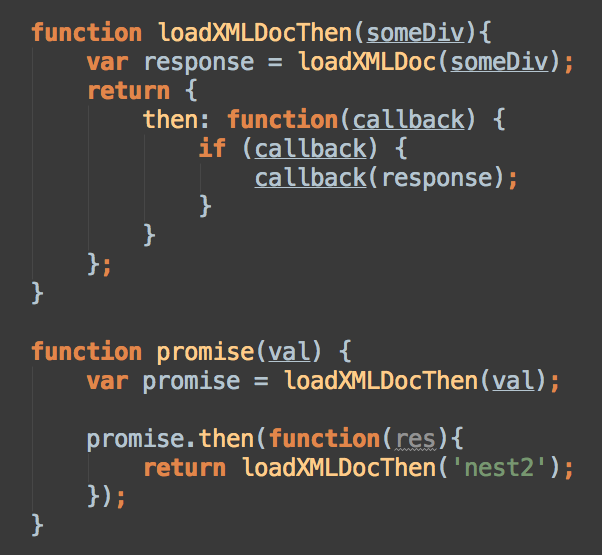
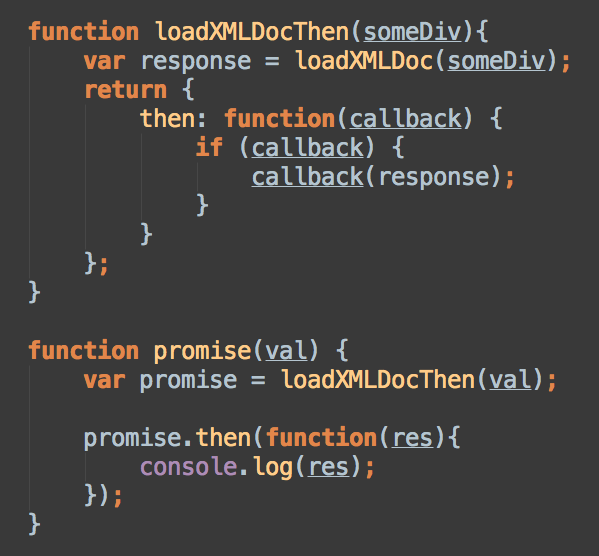
Creating slides.

diff --git a/src/main/webapp/slides/2014.html b/src/main/webapp/slides/2014.html
@@ -41,6 +41,14 @@
 </section>
 
 <section id="b" class="slide">
+    <!--
+  <ul>
+       <li>Browser</li>
+       <li>AJAX</li>
+       <li>Promise</li>
+       <li>AngularJS</li>
+  </ul>
+  -->
     <h2>What's in store</h2>
     <div class="col-md-10 col-md-offset-1">
         <ul>
@@ -107,19 +115,19 @@
                 <pre>
                     <code>
                         function buttonClick(){
-                          console.log(&#x27;hello, click event&#x27;);
-                          functionWhichTakesFunctionAsArgument(callback);
+                        console.log(&#x27;hello, click event&#x27;);
+                        functionWhichTakesFunctionAsArgument(callback);
                         }
 
                         var callback = function(data){
-                          console.log(&#x27;callback time! &#x27;+data);
+                        console.log(&#x27;callback time! &#x27;+data);asdfadsfsadfadf
                         };
 
                         function functionWhichTakesFunctionAsArgument(callback){
-                          console.log(&#x27;first function execution&#x27;);
-                          //... do something
-                          var response = Math.random();
-                          callback(response);
+                        console.log(&#x27;first function execution&#x27;);
+                        //... do something
+                        var response = Math.random();
+                        callback(response);
                         };
                     </code>
                 </pre>
@@ -141,6 +149,7 @@
     <!--
     <ul>
         <li>AJAX = Asynchronous JavaScript and XML</li>
+        <li>AJAX is the art of exchanging data with a server, and updating parts of a web page - without reloading the whole page.</li>
     </ul>
     -->
     <h2>AJAX</h2>
@@ -150,22 +159,22 @@
                 <pre>
                     <code>
                         function buttonClick2(){
-                          consoleLog(&#x27;f_ajaxDiv&#x27;, &#x27;Click event&#x27;);
-                          functionWhithTakesFunctionAsArgument2(callback2);
-                          consoleLogAdd(&#x27;f_ajaxDiv&#x27;, &#x27;No Blocking!!&#x27;)
+                        consoleLog(&#x27;f_ajaxDiv&#x27;, &#x27;Click event&#x27;);
+                        functionWhithTakesFunctionAsArgument2(callback2);
+                        consoleLogAdd(&#x27;f_ajaxDiv&#x27;, &#x27;No Blocking!!&#x27;)
                         }
 
                         var callback2 = function(data){
-                          consoleLogAdd(&#x27;f_ajaxDiv&#x27;, &#x27;callback time! &#x27;+data);
+                        consoleLogAdd(&#x27;f_ajaxDiv&#x27;, &#x27;callback time! &#x27;+data);
                         };
 
                         function functionWhichTakesFunctionAsArgument2(someCallbackMethod){
-                          consoleLogAdd(&#x27;f_ajaxDiv&#x27;, &#x27;first function execution&#x27;);
-                          //... do something
-                          setTimeout(function(){
-                            var response = Math.random();
-                            someCallbackMethod(response);
-                          }, 3000);
+                        consoleLogAdd(&#x27;f_ajaxDiv&#x27;, &#x27;first function execution&#x27;);
+                        //... do something
+                        setTimeout(function(){
+                        var response = Math.random();
+                        someCallbackMethod(response);
+                        }, 3000);
                         };
                     </code>
                 </pre>
@@ -174,10 +183,10 @@
             <script async src="http://codepen.io/assets/embed/ei.js"></script>
             <div class="figure">
                 <div style="float: left" id="f_ajaxDiv">...</div>
-<!--                 <img class="img_width" src="images/callback2.png"/>
- -->                <ul class="list-inline text-right">
-                    <li><a class="btn btn-primary" onclick="buttonClick2()">Call me back</a></li>
-                </ul>
+                <!--                 <img class="img_width" src="images/callback2.png"/>
+                 -->                <ul class="list-inline text-right">
+                <li><a class="btn btn-primary" onclick="buttonClick2()">Call me back</a></li>
+            </ul>
             </div>
         </div>
     </section>
@@ -236,14 +245,22 @@
 <section id="k" class="slide">
     <!--
     <ul>
-        <li>Angular</li>
+        <li>The primary way of interacting with a promise is through its THEN method</li>
+        <li>THEN registers callbacks to receive either a promise’s eventual value or the reason why the promise cannot be fulfilled.</li>
     </ul>
     -->
     <h2>Promises</h2>
     <div class="figure">
         A promise
-        represents the eventual result of an asynchronous operation. The primary way of interacting with a promise is through its then method, which registers callbacks to receive either a promise’s eventual value or the reason why the promise cannot be fulfilled.
         <a class="img_width" href="http://promisesaplus.com/#point-2">Promises/A+</a>
+        represents the eventual result of an asynchronous operation.
+        <div class="figure">
+            <img class="img_width" src="images/promise.png"/>
+            <div id="promiseDiv">Some Static data</div>
+            <ul class="list-inline text-right">
+                <li><a class="btn btn-primary" onclick="promise('promiseDiv')">Call me back</a></li>
+            </ul>
+        </div>
     </div>
 </section>
 
@@ -268,7 +285,16 @@
 <section id="m" class="slide">
     <!--
     <ul>
-        <li>Angular</li>
+<li>A promise must be in one of three states:
+<br/>pending, fulfilled, or rejected.
+<li><p>When pending, a promise:
+may transition to either the fulfilled or rejected state.</li>
+<li><p>When fulfilled, a promise:
+<br/>must not transition to any other state.
+<br/>must have a value, which must not change.</li>
+<li><p>When rejected, a promise:
+<br/>must not transition to any other state.
+<br/>must have a reason, which must not change.</li>
     </ul>
     -->
     <h2>Three States</h2>
@@ -283,33 +309,35 @@
     </div>
 </section>
 
-<section id="n" class="slide">
-    <!--
-    <ul>
-        <li>When se</li>
-    </ul>
-    -->
-    <h2>Promise</h2>
-    <div class="figure">
-        <img class="img_width" src="images/promise.png"/>
-        <div id="promiseDiv">Some Static data</div>
-        <ul class="list-inline text-right">
-            <li><a class="btn btn-primary" onclick="promise('promiseDiv')">Call me back</a></li>
-        </ul>
-    </div>
-</section>
+<!--<section id="n" class="slide">-->
+    <!--&lt;!&ndash;-->
+    <!--<ul>-->
+        <!--<li>When se</li>-->
+    <!--</ul>-->
+    <!--&ndash;&gt;-->
+    <!--<h2>Promise</h2>-->
+    <!--<div class="figure">-->
+        <!--<img class="img_width" src="images/promise.png"/>-->
+        <!--<div id="promiseDiv">Some Static data</div>-->
+        <!--<ul class="list-inline text-right">-->
+            <!--<li><a class="btn btn-primary" onclick="promise('promiseDiv')">Call me back</a></li>-->
+        <!--</ul>-->
+    <!--</div>-->
+<!--</section>-->
 
 <section id="o1" class="slide" ng-app="myApp">
     <!--
     <ul>
-        <li>When se</li>
+         <li>http Facilitates communication with the remote HTTP servers via the browser's XMLHttpRequest object.</li>
+         <li><p>A function which takes a single argument — a configuration object —
+         <br/>that is used to generate an HTTP request and returns a promise with two $http specific methods: success and error.</li>
+         <li><p>Since the returned value of calling the $http function is a promise, you can also use the then method to register callbacks</li>
     </ul>
     -->
     <h2>AngularJS - $http</h2>
     <div class="figure">
         <ul class="">
-            <li>Facilitates communication with the remote HTTP servers via the browser's XMLHttpRequest object.</li>
-            <li>A function which takes a single argument — a configuration object — that is used to generate an HTTP request and returns a promise with two $http specific methods: success and error.</li>
+
         </ul>
     </div>
     <img class="img_width" src="images/http.png"/>
@@ -368,6 +396,8 @@
     <!--
   <ul>
       <li>Using the THEN method</li>
+      <li><p>Since the returned value of calling the $http function is a promise, you can also use the then method to register callbacks</li>
+      <li><p>These callbacks will receive a single argument – an object representing the response. </li>
   </ul>
   -->
     <h2>AngularJS - $http</h2>
@@ -669,7 +699,7 @@
         var promise = loadXMLDocThen(val);
 
         promise.then(function(res){
-            return loadXMLDocThen('nest2');
+            console.log(res);
         });
     }
 
